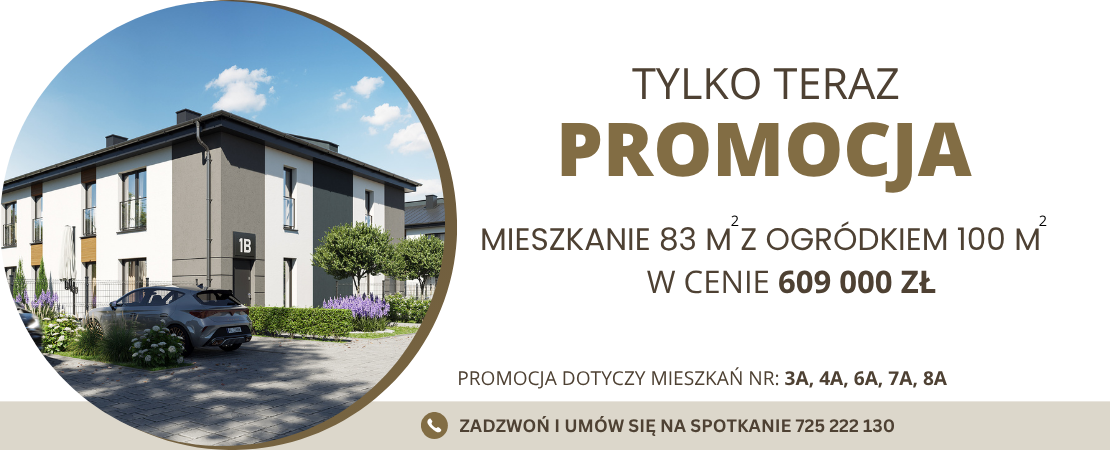
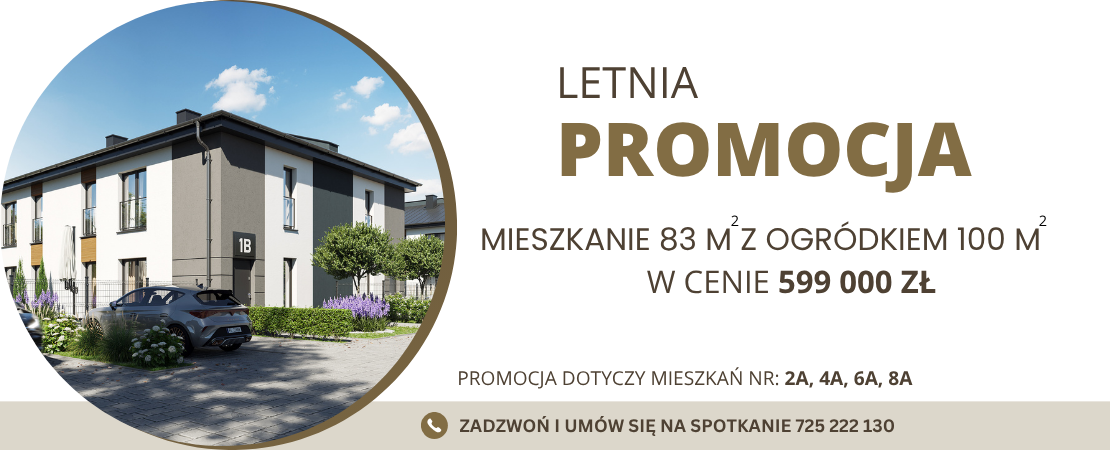
letnia promocja

Changed region(s): [[0.4901, 0.1244, 0.827, 0.2178], [0.7964, 0.8089, 0.8577, 0.8711], [0.7045, 0.5911, 0.7351, 0.6533]]

diff --git a/index.html b/index.html
@@ -335,8 +335,8 @@
             <polygon id="house013" onclick="scrollToTable()" class="wholePlace placeFree" points="330 259, 378 260, 378 303, 375 303, 375 312, 330 312">A;2</polygon>
             <polygon id="house014" onclick="scrollToTable()" class="wholePlace placeFree" points="281 259, 330 259, 330 312, 284 312, 284 304, 281 304">A;1</polygon>
 
-            <polygon id="house015" onclick="scrollToTable()" class="wholePlace placeBooked" points="385 180, 442 184, 442 251, 414 251, 414 218, 385 218">B;3</polygon>
-            <polygon id="house015" onclick="scrollToTable()" class="wholePlace placeBooked" points="442 184, 498 187, 498 218, 470 218, 470 251, 442 251">B;4</polygon>
+            <polygon id="house015" onclick="scrollToTable()" class="wholePlace placeFree" points="385 180, 442 184, 442 251, 414 251, 414 218, 385 218">B;3</polygon>
+            <polygon id="house015" onclick="scrollToTable()" class="wholePlace placeFree" points="442 184, 498 187, 498 218, 470 218, 470 251, 442 251">B;4</polygon>
             <polygon id="house015" onclick="scrollToTable()" class="wholePlace placeFree" points="393 251, 442 251, 442 303, 397 303, 397 295, 393 295">A;3</polygon>
             <polygon id="house016" onclick="scrollToTable()" class="wholePlace placeFree" points="442 251, 491 251, 491 295, 487 295, 487 303, 442 303">A;4</polygon>
 
@@ -358,7 +358,7 @@
             <polygon id="house018" onclick="scrollToTable()" class="wholePlace placeBooked" points="898 213, 946 216, 946 292, 898 292">B;11</polygon>
             <polygon id="house018" onclick="scrollToTable()" class="wholePlace placeBooked" points="946 216, 973 218, 973 312, 946 312">A;11</polygon>
             <polygon id="house018" onclick="scrollToTable()" class="wholePlace placeBooked" points="973 218, 1000 220, 1000 312, 973 312">A;12</polygon>
-            <polygon id="house020" onclick="scrollToTable()" class="wholePlace placeFree" points="1000 221, 1048 225, 1048 291, 1000 291">B;12</polygon>
+            <polygon id="house020" onclick="scrollToTable()" class="wholePlace placeBooked" points="1000 221, 1048 225, 1048 291, 1000 291">B;12</polygon>
 
             <polygon id="house020" onclick="scrollToTable()" class="wholePlace placeBooked" points="1048 225, 1101 229, 1101 318, 1048 318">B;13</polygon>
             <polygon id="house020" onclick="scrollToTable()" class="wholePlace placeBooked" points="1101 229, 1142 232, 1142 318, 1101 318">A;13</polygon>
@@ -459,7 +459,7 @@
                         <td>83</td>
                         <td>IV kw 2026</td>
                         <td>Dostępne</td>
-                        <td>609 000</td>
+                        <td>599 000</td>
                         <td>95</td>
                         <td><button type="button" class="btn btn-success" onclick="showHouseProjection('mieszkania_2A_4A_6A.pdf')">Zobacz</button></td>
                         <td><button type="button" class="btn btn-success" onclick="showHouseProjection('PZT.pdf')">Zobacz</button></td>
@@ -484,12 +484,12 @@
                         <td><button type="button" class="btn btn-success" onclick="showHouseProjection('mieszkania_1A_3A_5A.pdf')">Zobacz</button></td>
                         <td><button type="button" class="btn btn-success" onclick="showHouseProjection('PZT.pdf')">Zobacz</button></td>
                     </tr>
-                    <tr style="background-color:wheat">
+                    <tr>
                         <th scope="row">3B</th>
                         <td>83</td>
                         <td>III kw 2026</td>
-                        <td>Rezerwacja</td>
-                        <td></td>
+                        <td>Dostępne</td>
+                        <td>609 000</td>
                         <td>180</td>
                         <td><button type="button" class="btn btn-success" onclick="showHouseProjection('mieszkania_1B_3B_5B.pdf')">Zobacz</button></td>
                         <td><button type="button" class="btn btn-success" onclick="showHouseProjection('PZT.pdf')">Zobacz</button></td>
@@ -499,17 +499,17 @@
                         <td>83</td>
                         <td>III kw 2026</td>
                         <td>Dostępne</td>
-                        <td>609 000</td>
+                        <td>599 000</td>
                         <td>95</td>
                         <td><button type="button" class="btn btn-success" onclick="showHouseProjection('mieszkania_2A_4A_6A.pdf')">Zobacz</button></td>
                         <td><button type="button" class="btn btn-success" onclick="showHouseProjection('PZT.pdf')">Zobacz</button></td>
                     </tr>
-                    <tr style="background-color:wheat">
+                    <tr>
                         <th scope="row">4B</th>
                         <td>83</td>
                         <td>III kw 2026</td>
-                        <td>Rezerwacja</td>
-                        <td></td>
+                        <td>Dostępne</td>
+                        <td>609 000</td>
                         <td>168</td>
                         <td><button type="button" class="btn btn-success" onclick="showHouseProjection('mieszkania_2B_4B_6B.pdf')">Zobacz</button></td>
                         <td><button type="button" class="btn btn-success" onclick="showHouseProjection('PZT.pdf')">Zobacz</button></td>
@@ -539,7 +539,7 @@
                         <td>83</td>
                         <td>II kw 2026</td>
                         <td>Dostępne</td>
-                        <td>609 000</td>
+                        <td>599 000</td>
                         <td>95</td>
                         <td><button type="button" class="btn btn-success" onclick="showHouseProjection('mieszkania_2A_4A_6A.pdf')">Zobacz</button></td>
                         <td><button type="button" class="btn btn-success" onclick="showHouseProjection('PZT.pdf')">Zobacz</button></td>
@@ -579,7 +579,7 @@
                         <td>83</td>
                         <td>I kw 2026</td>
                         <td>Dostępne</td>
-                        <td>609 000</td>
+                        <td>599 000</td>
                         <td>160</td>
                         <td><button type="button" class="btn btn-success" onclick="showHouseProjection('mieszkanie_8A.pdf')">Zobacz</button></td>
                         <td><button type="button" class="btn btn-success" onclick="showHouseProjection('PZT.pdf')">Zobacz</button></td>
@@ -664,12 +664,12 @@
                         <td><button type="button" class="btn btn-success" onclick="showHouseProjection('51m2.jpg')">Zobacz</button></td>
                         <td><button type="button" class="btn btn-success" onclick="showHouseProjection('PZT.pdf')">Zobacz</button></td>
                     </tr>
-                    <tr>
+                    <tr style="background-color:wheat">
                         <th scope="row">12B</th>
                         <td>65</td>
                         <td>I kw 2026</td>
-                        <td>Dostępne</td>
-                        <td>519 000</td>
+                        <td>Rezerwacja</td>
+                        <td></td>
                         <td>195</td>
                         <td><button type="button" class="btn btn-success" onclick="showHouseProjection('65m2.jpg')">Zobacz</button></td>
                         <td><button type="button" class="btn btn-success" onclick="showHouseProjection('PZT.pdf')">Zobacz</button></td>
